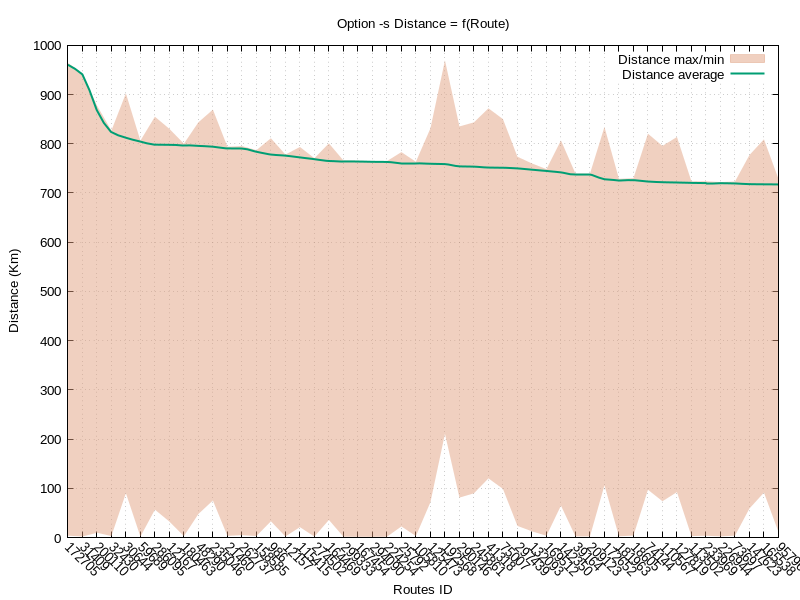
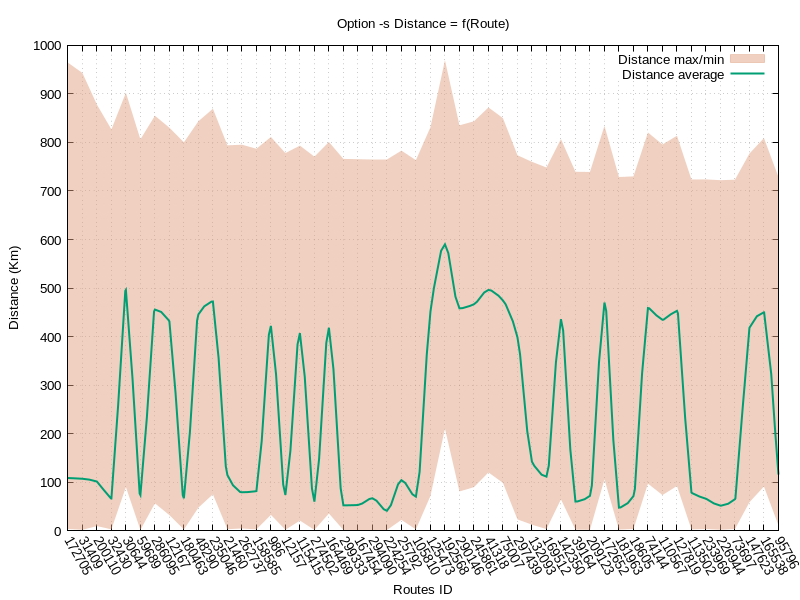
jsp s'il y a tout

diff --git a/progc/Traitement_s/AVLs.c b/progc/Traitement_s/AVLs.c
@@ -245,7 +245,7 @@ void afficherArbre(pArbre a){
 void afficherArbre2(pArbre a){
   if (a != NULL){
     afficherArbre2(a->fd);
-    printf("%d,%.2f,%.2f,%.2f,%.2f\n", a->idtrajet, a->distance, a->max, a->min, a->moy);
+    printf("%d,%.2f,%.2f,%.2f,%.2f,%f\n", a->idtrajet, a->distance, a->max, a->min, a->moy,(a->distance)/(a->nb));
     //printf("moy: %.2f\n",a->moy);
     afficherArbre2(a->fg);
     }
